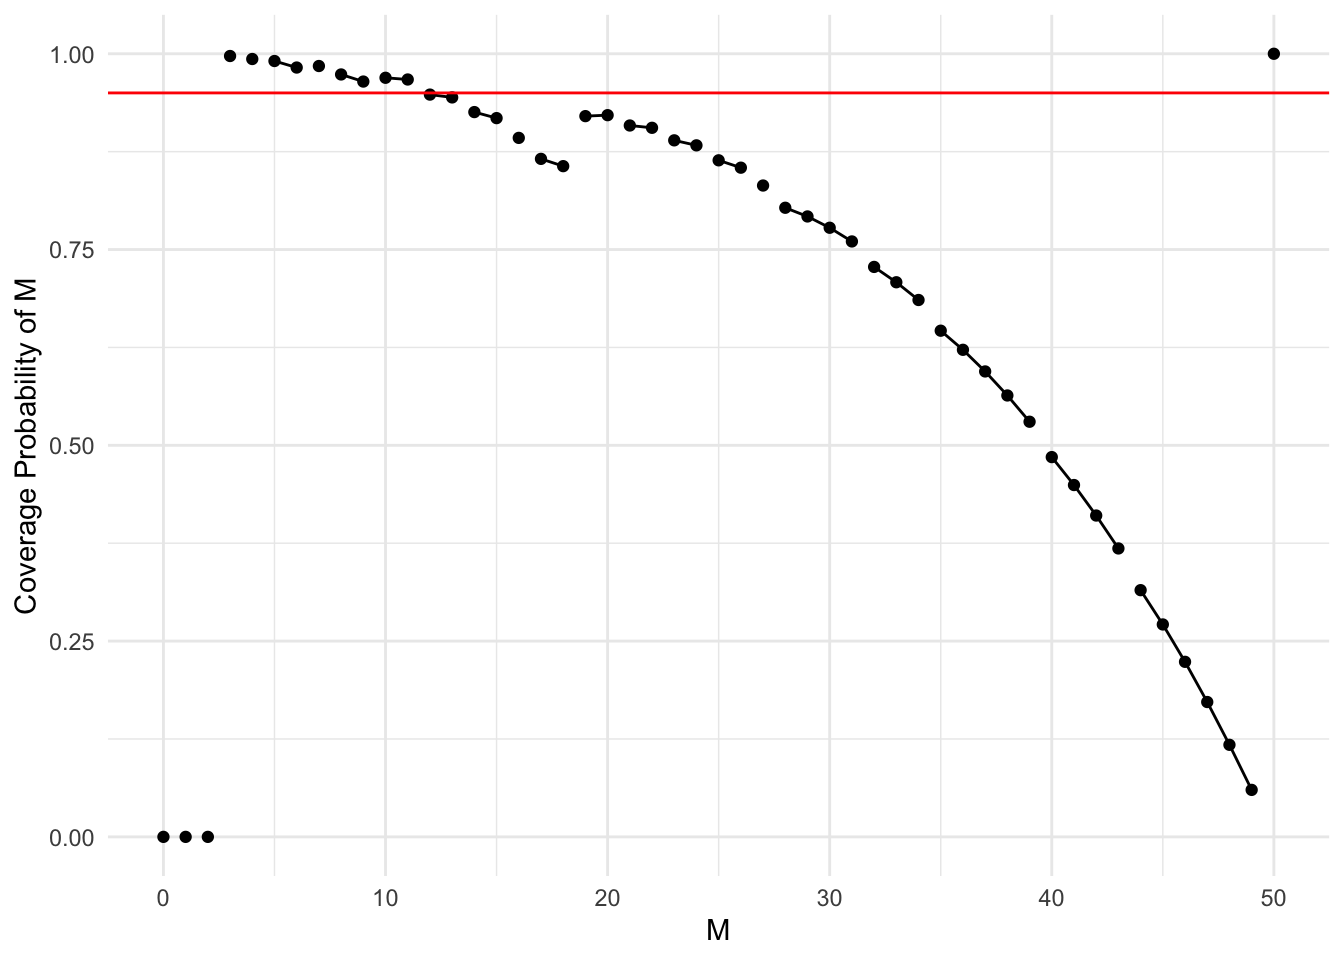
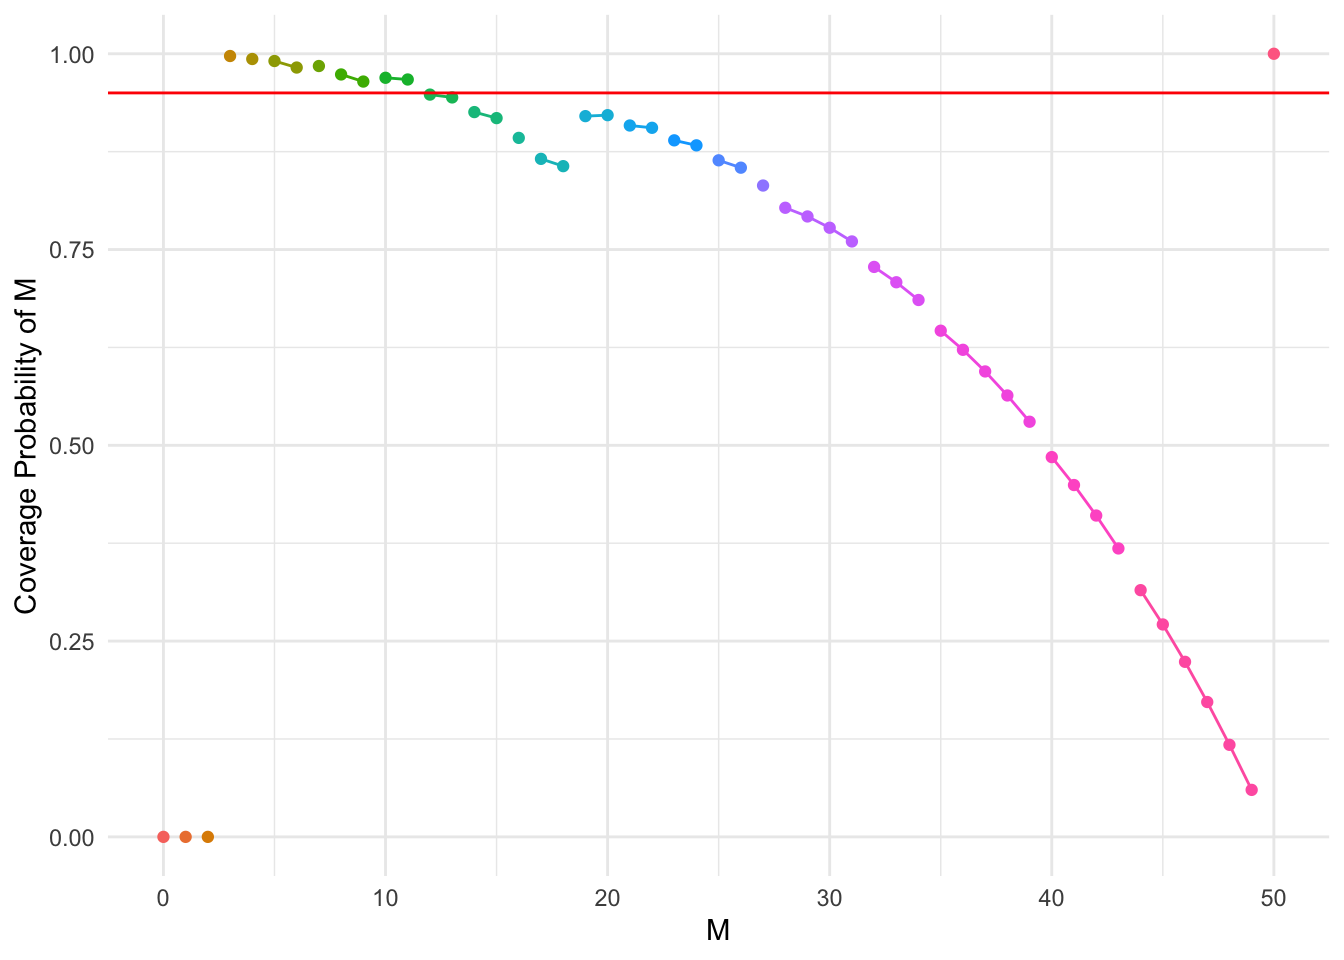
added cpf plots for Blaker updated cpf plots for Zhang

diff --git a/CI_Zhang.html b/CI_Zhang.html
@@ -416,15 +416,16 @@ pre > code.sourceCode > span > a:first-child::before { text-decoration: underlin
 <span id="cb49-9"><a href="#cb49-9" aria-hidden="true" tabindex="-1"></a><span class="co"># The group column assigns a unique group number whenever there is a change in min_x or max_x values</span></span>
 <span id="cb49-10"><a href="#cb49-10" aria-hidden="true" tabindex="-1"></a><span class="co"># cumsum is used to create a cumulative sum that increments the group number whenever there is a change in min_x or max_x</span></span>
 <span id="cb49-11"><a href="#cb49-11" aria-hidden="true" tabindex="-1"></a>coverage_df <span class="ot">=</span> coverage_df <span class="sc">%&gt;%</span></span>
-<span id="cb49-12"><a href="#cb49-12" aria-hidden="true" tabindex="-1"></a>  <span class="fu">mutate</span>(<span class="at">group =</span> <span class="fu">cumsum</span>(<span class="fu">c</span>(<span class="dv">1</span>, <span class="fu">diff</span>(min_x) <span class="sc">!=</span> <span class="dv">0</span> <span class="sc">|</span> <span class="fu">diff</span>(max_x) <span class="sc">!=</span> <span class="dv">0</span>)))</span>
+<span id="cb49-12"><a href="#cb49-12" aria-hidden="true" tabindex="-1"></a>  <span class="fu">mutate</span>(<span class="at">group =</span> <span class="fu">factor</span>(<span class="fu">cumsum</span>(<span class="fu">c</span>(<span class="dv">1</span>, <span class="fu">diff</span>(min_x) <span class="sc">!=</span> <span class="dv">0</span> <span class="sc">|</span> <span class="fu">diff</span>(max_x) <span class="sc">!=</span> <span class="dv">0</span>))))</span>
 <span id="cb49-13"><a href="#cb49-13" aria-hidden="true" tabindex="-1"></a></span>
-<span id="cb49-14"><a href="#cb49-14" aria-hidden="true" tabindex="-1"></a><span class="fu">ggplot</span>(coverage_df, <span class="fu">aes</span>(<span class="at">x =</span> M, <span class="at">y =</span> coverage_prob, <span class="at">group =</span> group)) <span class="sc">+</span></span>
+<span id="cb49-14"><a href="#cb49-14" aria-hidden="true" tabindex="-1"></a><span class="fu">ggplot</span>(coverage_df, <span class="fu">aes</span>(<span class="at">x =</span> M, <span class="at">y =</span> coverage_prob, <span class="at">group =</span> group, <span class="at">color =</span> group)) <span class="sc">+</span></span>
 <span id="cb49-15"><a href="#cb49-15" aria-hidden="true" tabindex="-1"></a>  <span class="fu">geom_line</span>() <span class="sc">+</span></span>
 <span id="cb49-16"><a href="#cb49-16" aria-hidden="true" tabindex="-1"></a>  <span class="fu">geom_point</span>() <span class="sc">+</span></span>
 <span id="cb49-17"><a href="#cb49-17" aria-hidden="true" tabindex="-1"></a>  <span class="fu">labs</span>(<span class="at">x =</span> <span class="st">"M"</span>, <span class="at">y =</span> <span class="st">"Coverage Probability of M"</span>) <span class="sc">+</span></span>
 <span id="cb49-18"><a href="#cb49-18" aria-hidden="true" tabindex="-1"></a>  <span class="fu">geom_hline</span>(<span class="at">yintercept =</span> conf_level, <span class="at">color =</span> <span class="st">"red"</span>) <span class="sc">+</span></span>
 <span id="cb49-19"><a href="#cb49-19" aria-hidden="true" tabindex="-1"></a>  <span class="fu">ylim</span>(<span class="dv">0</span>, <span class="dv">1</span>) <span class="sc">+</span></span>
-<span id="cb49-20"><a href="#cb49-20" aria-hidden="true" tabindex="-1"></a>  <span class="fu">theme_minimal</span>()</span></code><button title="Copy to Clipboard" class="code-copy-button"><i class="bi"></i></button></pre></div>
+<span id="cb49-20"><a href="#cb49-20" aria-hidden="true" tabindex="-1"></a>  <span class="fu">theme_minimal</span>() <span class="sc">+</span></span>
+<span id="cb49-21"><a href="#cb49-21" aria-hidden="true" tabindex="-1"></a>  <span class="fu">theme</span>(<span class="at">legend.position =</span> <span class="st">"none"</span>)</span></code><button title="Copy to Clipboard" class="code-copy-button"><i class="bi"></i></button></pre></div>
 <div class="cell-output-display">
 <div>
 <figure class="figure">
@@ -445,15 +446,16 @@ pre > code.sourceCode > span > a:first-child::before { text-decoration: underlin
 <span id="cb50-9"><a href="#cb50-9" aria-hidden="true" tabindex="-1"></a><span class="co"># The group column assigns a unique group number whenever there is a change in min_x or max_x values</span></span>
 <span id="cb50-10"><a href="#cb50-10" aria-hidden="true" tabindex="-1"></a><span class="co"># cumsum is used to create a cumulative sum that increments the group number whenever there is a change in min_x or max_x</span></span>
 <span id="cb50-11"><a href="#cb50-11" aria-hidden="true" tabindex="-1"></a>coverage_df <span class="ot">=</span> coverage_df <span class="sc">%&gt;%</span></span>
-<span id="cb50-12"><a href="#cb50-12" aria-hidden="true" tabindex="-1"></a>  <span class="fu">mutate</span>(<span class="at">group =</span> <span class="fu">cumsum</span>(<span class="fu">c</span>(<span class="dv">1</span>, <span class="fu">diff</span>(min_x) <span class="sc">!=</span> <span class="dv">0</span> <span class="sc">|</span> <span class="fu">diff</span>(max_x) <span class="sc">!=</span> <span class="dv">0</span>)))</span>
+<span id="cb50-12"><a href="#cb50-12" aria-hidden="true" tabindex="-1"></a>  <span class="fu">mutate</span>(<span class="at">group =</span> <span class="fu">factor</span>(<span class="fu">cumsum</span>(<span class="fu">c</span>(<span class="dv">1</span>, <span class="fu">diff</span>(min_x) <span class="sc">!=</span> <span class="dv">0</span> <span class="sc">|</span> <span class="fu">diff</span>(max_x) <span class="sc">!=</span> <span class="dv">0</span>))))</span>
 <span id="cb50-13"><a href="#cb50-13" aria-hidden="true" tabindex="-1"></a></span>
-<span id="cb50-14"><a href="#cb50-14" aria-hidden="true" tabindex="-1"></a><span class="fu">ggplot</span>(coverage_df, <span class="fu">aes</span>(<span class="at">x =</span> M, <span class="at">y =</span> coverage_prob, <span class="at">group =</span> group)) <span class="sc">+</span></span>
+<span id="cb50-14"><a href="#cb50-14" aria-hidden="true" tabindex="-1"></a><span class="fu">ggplot</span>(coverage_df, <span class="fu">aes</span>(<span class="at">x =</span> M, <span class="at">y =</span> coverage_prob, <span class="at">group =</span> group, <span class="at">color =</span> group)) <span class="sc">+</span></span>
 <span id="cb50-15"><a href="#cb50-15" aria-hidden="true" tabindex="-1"></a>  <span class="fu">geom_line</span>() <span class="sc">+</span></span>
 <span id="cb50-16"><a href="#cb50-16" aria-hidden="true" tabindex="-1"></a>  <span class="fu">geom_point</span>() <span class="sc">+</span></span>
 <span id="cb50-17"><a href="#cb50-17" aria-hidden="true" tabindex="-1"></a>  <span class="fu">labs</span>(<span class="at">x =</span> <span class="st">"M"</span>, <span class="at">y =</span> <span class="st">"Coverage Probability of M"</span>) <span class="sc">+</span></span>
 <span id="cb50-18"><a href="#cb50-18" aria-hidden="true" tabindex="-1"></a>  <span class="fu">geom_hline</span>(<span class="at">yintercept =</span> conf_level, <span class="at">color =</span> <span class="st">"red"</span>) <span class="sc">+</span></span>
 <span id="cb50-19"><a href="#cb50-19" aria-hidden="true" tabindex="-1"></a>  <span class="fu">ylim</span>(<span class="dv">0</span>, <span class="dv">1</span>) <span class="sc">+</span></span>
-<span id="cb50-20"><a href="#cb50-20" aria-hidden="true" tabindex="-1"></a>  <span class="fu">theme_minimal</span>()</span></code><button title="Copy to Clipboard" class="code-copy-button"><i class="bi"></i></button></pre></div>
+<span id="cb50-20"><a href="#cb50-20" aria-hidden="true" tabindex="-1"></a>  <span class="fu">theme_minimal</span>() <span class="sc">+</span></span>
+<span id="cb50-21"><a href="#cb50-21" aria-hidden="true" tabindex="-1"></a>  <span class="fu">theme</span>(<span class="at">legend.position =</span> <span class="st">"none"</span>)</span></code><button title="Copy to Clipboard" class="code-copy-button"><i class="bi"></i></button></pre></div>
 <div class="cell-output-display">
 <div>
 <figure class="figure">
@@ -534,15 +536,16 @@ pre > code.sourceCode > span > a:first-child::before { text-decoration: underlin
 <span id="cb53-9"><a href="#cb53-9" aria-hidden="true" tabindex="-1"></a><span class="co"># The group column assigns a unique group number whenever there is a change in min_x or max_x values</span></span>
 <span id="cb53-10"><a href="#cb53-10" aria-hidden="true" tabindex="-1"></a><span class="co"># cumsum is used to create a cumulative sum that increments the group number whenever there is a change in min_x or max_x</span></span>
 <span id="cb53-11"><a href="#cb53-11" aria-hidden="true" tabindex="-1"></a>coverage_df <span class="ot">=</span> coverage_df <span class="sc">%&gt;%</span></span>
-<span id="cb53-12"><a href="#cb53-12" aria-hidden="true" tabindex="-1"></a>  <span class="fu">mutate</span>(<span class="at">group =</span> <span class="fu">cumsum</span>(<span class="fu">c</span>(<span class="dv">1</span>, <span class="fu">diff</span>(min_x) <span class="sc">!=</span> <span class="dv">0</span> <span class="sc">|</span> <span class="fu">diff</span>(max_x) <span class="sc">!=</span> <span class="dv">0</span>)))</span>
+<span id="cb53-12"><a href="#cb53-12" aria-hidden="true" tabindex="-1"></a>  <span class="fu">mutate</span>(<span class="at">group =</span> <span class="fu">factor</span>(<span class="fu">cumsum</span>(<span class="fu">c</span>(<span class="dv">1</span>, <span class="fu">diff</span>(min_x) <span class="sc">!=</span> <span class="dv">0</span> <span class="sc">|</span> <span class="fu">diff</span>(max_x) <span class="sc">!=</span> <span class="dv">0</span>))))</span>
 <span id="cb53-13"><a href="#cb53-13" aria-hidden="true" tabindex="-1"></a></span>
-<span id="cb53-14"><a href="#cb53-14" aria-hidden="true" tabindex="-1"></a><span class="fu">ggplot</span>(coverage_df, <span class="fu">aes</span>(<span class="at">x =</span> M, <span class="at">y =</span> coverage_prob, <span class="at">group =</span> group)) <span class="sc">+</span></span>
+<span id="cb53-14"><a href="#cb53-14" aria-hidden="true" tabindex="-1"></a><span class="fu">ggplot</span>(coverage_df, <span class="fu">aes</span>(<span class="at">x =</span> M, <span class="at">y =</span> coverage_prob, <span class="at">group =</span> group, <span class="at">color =</span> group)) <span class="sc">+</span></span>
 <span id="cb53-15"><a href="#cb53-15" aria-hidden="true" tabindex="-1"></a>  <span class="fu">geom_line</span>() <span class="sc">+</span></span>
 <span id="cb53-16"><a href="#cb53-16" aria-hidden="true" tabindex="-1"></a>  <span class="fu">geom_point</span>() <span class="sc">+</span></span>
 <span id="cb53-17"><a href="#cb53-17" aria-hidden="true" tabindex="-1"></a>  <span class="fu">labs</span>(<span class="at">x =</span> <span class="st">"M"</span>, <span class="at">y =</span> <span class="st">"Coverage Probability of M"</span>) <span class="sc">+</span></span>
 <span id="cb53-18"><a href="#cb53-18" aria-hidden="true" tabindex="-1"></a>  <span class="fu">geom_hline</span>(<span class="at">yintercept =</span> conf_level, <span class="at">color =</span> <span class="st">"red"</span>) <span class="sc">+</span></span>
 <span id="cb53-19"><a href="#cb53-19" aria-hidden="true" tabindex="-1"></a>  <span class="fu">ylim</span>(<span class="dv">0</span>, <span class="dv">1</span>) <span class="sc">+</span></span>
-<span id="cb53-20"><a href="#cb53-20" aria-hidden="true" tabindex="-1"></a>  <span class="fu">theme_minimal</span>()</span></code><button title="Copy to Clipboard" class="code-copy-button"><i class="bi"></i></button></pre></div>
+<span id="cb53-20"><a href="#cb53-20" aria-hidden="true" tabindex="-1"></a>  <span class="fu">theme_minimal</span>() <span class="sc">+</span></span>
+<span id="cb53-21"><a href="#cb53-21" aria-hidden="true" tabindex="-1"></a>  <span class="fu">theme</span>(<span class="at">legend.position =</span> <span class="st">"none"</span>)</span></code><button title="Copy to Clipboard" class="code-copy-button"><i class="bi"></i></button></pre></div>
 <div class="cell-output-display">
 <div>
 <figure class="figure">
@@ -563,15 +566,16 @@ pre > code.sourceCode > span > a:first-child::before { text-decoration: underlin
 <span id="cb54-9"><a href="#cb54-9" aria-hidden="true" tabindex="-1"></a><span class="co"># The group column assigns a unique group number whenever there is a change in min_x or max_x values</span></span>
 <span id="cb54-10"><a href="#cb54-10" aria-hidden="true" tabindex="-1"></a><span class="co"># cumsum is used to create a cumulative sum that increments the group number whenever there is a change in min_x or max_x</span></span>
 <span id="cb54-11"><a href="#cb54-11" aria-hidden="true" tabindex="-1"></a>coverage_df <span class="ot">=</span> coverage_df <span class="sc">%&gt;%</span></span>
-<span id="cb54-12"><a href="#cb54-12" aria-hidden="true" tabindex="-1"></a>  <span class="fu">mutate</span>(<span class="at">group =</span> <span class="fu">cumsum</span>(<span class="fu">c</span>(<span class="dv">1</span>, <span class="fu">diff</span>(min_x) <span class="sc">!=</span> <span class="dv">0</span> <span class="sc">|</span> <span class="fu">diff</span>(max_x) <span class="sc">!=</span> <span class="dv">0</span>)))</span>
+<span id="cb54-12"><a href="#cb54-12" aria-hidden="true" tabindex="-1"></a>  <span class="fu">mutate</span>(<span class="at">group =</span> <span class="fu">factor</span>(<span class="fu">cumsum</span>(<span class="fu">c</span>(<span class="dv">1</span>, <span class="fu">diff</span>(min_x) <span class="sc">!=</span> <span class="dv">0</span> <span class="sc">|</span> <span class="fu">diff</span>(max_x) <span class="sc">!=</span> <span class="dv">0</span>))))</span>
 <span id="cb54-13"><a href="#cb54-13" aria-hidden="true" tabindex="-1"></a></span>
-<span id="cb54-14"><a href="#cb54-14" aria-hidden="true" tabindex="-1"></a><span class="fu">ggplot</span>(coverage_df, <span class="fu">aes</span>(<span class="at">x =</span> M, <span class="at">y =</span> coverage_prob, <span class="at">group =</span> group)) <span class="sc">+</span></span>
+<span id="cb54-14"><a href="#cb54-14" aria-hidden="true" tabindex="-1"></a><span class="fu">ggplot</span>(coverage_df, <span class="fu">aes</span>(<span class="at">x =</span> M, <span class="at">y =</span> coverage_prob, <span class="at">group =</span> group, <span class="at">color =</span> group)) <span class="sc">+</span></span>
 <span id="cb54-15"><a href="#cb54-15" aria-hidden="true" tabindex="-1"></a>  <span class="fu">geom_line</span>() <span class="sc">+</span></span>
 <span id="cb54-16"><a href="#cb54-16" aria-hidden="true" tabindex="-1"></a>  <span class="fu">geom_point</span>() <span class="sc">+</span></span>
 <span id="cb54-17"><a href="#cb54-17" aria-hidden="true" tabindex="-1"></a>  <span class="fu">labs</span>(<span class="at">x =</span> <span class="st">"M"</span>, <span class="at">y =</span> <span class="st">"Coverage Probability of M"</span>) <span class="sc">+</span></span>
 <span id="cb54-18"><a href="#cb54-18" aria-hidden="true" tabindex="-1"></a>  <span class="fu">geom_hline</span>(<span class="at">yintercept =</span> conf_level, <span class="at">color =</span> <span class="st">"red"</span>) <span class="sc">+</span></span>
 <span id="cb54-19"><a href="#cb54-19" aria-hidden="true" tabindex="-1"></a>  <span class="fu">ylim</span>(<span class="dv">0</span>, <span class="dv">1</span>) <span class="sc">+</span></span>
-<span id="cb54-20"><a href="#cb54-20" aria-hidden="true" tabindex="-1"></a>  <span class="fu">theme_minimal</span>()</span></code><button title="Copy to Clipboard" class="code-copy-button"><i class="bi"></i></button></pre></div>
+<span id="cb54-20"><a href="#cb54-20" aria-hidden="true" tabindex="-1"></a>  <span class="fu">theme_minimal</span>() <span class="sc">+</span></span>
+<span id="cb54-21"><a href="#cb54-21" aria-hidden="true" tabindex="-1"></a>  <span class="fu">theme</span>(<span class="at">legend.position =</span> <span class="st">"none"</span>)</span></code><button title="Copy to Clipboard" class="code-copy-button"><i class="bi"></i></button></pre></div>
 <div class="cell-output-display">
 <div>
 <figure class="figure">

diff --git a/CI_Blaker.html b/CI_Blaker.html
@@ -472,6 +472,67 @@ pre > code.sourceCode > span > a:first-child::before { text-decoration: underlin
 </div>
 </div>
 </section>
+<section id="plot-of-coverage-probability" class="level2">
+<h2 class="anchored" data-anchor-id="plot-of-coverage-probability">Plot of Coverage Probability</h2>
+<section id="n-20-m-3-conf_level-0.95" class="level3">
+<h3 class="anchored" data-anchor-id="n-20-m-3-conf_level-0.95">N = 20, m = 3, conf_level = 0.95</h3>
+<div class="cell">
+<div class="sourceCode cell-code" id="cb14"><pre class="sourceCode r code-with-copy"><code class="sourceCode r"><span id="cb14-1"><a href="#cb14-1" aria-hidden="true" tabindex="-1"></a>data <span class="ot">=</span> <span class="fu">blaker_ac</span>(<span class="at">N =</span> <span class="dv">20</span>, <span class="at">m =</span> <span class="dv">3</span>, <span class="at">conf_level =</span> <span class="fl">0.95</span>)</span>
+<span id="cb14-2"><a href="#cb14-2" aria-hidden="true" tabindex="-1"></a>conf_level<span class="ot">=</span> <span class="fl">0.95</span></span>
+<span id="cb14-3"><a href="#cb14-3" aria-hidden="true" tabindex="-1"></a></span>
+<span id="cb14-4"><a href="#cb14-4" aria-hidden="true" tabindex="-1"></a><span class="fu">ggplot</span>(data, <span class="fu">aes</span>(<span class="at">x =</span> M, <span class="at">y =</span> coverage_prob, <span class="at">group =</span> x_set, <span class="at">color =</span> x_set)) <span class="sc">+</span></span>
+<span id="cb14-5"><a href="#cb14-5" aria-hidden="true" tabindex="-1"></a>  <span class="fu">geom_line</span>() <span class="sc">+</span></span>
+<span id="cb14-6"><a href="#cb14-6" aria-hidden="true" tabindex="-1"></a>  <span class="fu">geom_point</span>() <span class="sc">+</span></span>
+<span id="cb14-7"><a href="#cb14-7" aria-hidden="true" tabindex="-1"></a>  <span class="fu">labs</span>(<span class="at">x =</span> <span class="st">"M"</span>, <span class="at">y =</span> <span class="st">"Coverage Probability of M"</span>) <span class="sc">+</span></span>
+<span id="cb14-8"><a href="#cb14-8" aria-hidden="true" tabindex="-1"></a>  <span class="fu">geom_hline</span>(<span class="at">yintercept =</span> conf_level, <span class="at">color =</span> <span class="st">"red"</span>) <span class="sc">+</span></span>
+<span id="cb14-9"><a href="#cb14-9" aria-hidden="true" tabindex="-1"></a>  <span class="fu">ylim</span>(conf_level <span class="sc">-</span> <span class="fl">0.005</span>, <span class="dv">1</span>) <span class="sc">+</span></span>
+<span id="cb14-10"><a href="#cb14-10" aria-hidden="true" tabindex="-1"></a>  <span class="fu">theme_minimal</span>() <span class="sc">+</span></span>
+<span id="cb14-11"><a href="#cb14-11" aria-hidden="true" tabindex="-1"></a>  <span class="fu">theme</span>(<span class="at">legend.position =</span> <span class="st">"none"</span>)</span></code><button title="Copy to Clipboard" class="code-copy-button"><i class="bi"></i></button></pre></div>
+<div class="cell-output cell-output-stderr">
+<pre><code>Warning: Removed 3 rows containing missing values (`geom_line()`).</code></pre>
+</div>
+<div class="cell-output cell-output-stderr">
+<pre><code>Warning: Removed 3 rows containing missing values (`geom_point()`).</code></pre>
+</div>
+<div class="cell-output-display">
+<div>
+<figure class="figure">
+<p><img src="CI_Blaker_files/figure-html/unnamed-chunk-11-1.png" class="img-fluid figure-img" width="672"></p>
+</figure>
+</div>
+</div>
+</div>
+</section>
+<section id="n-50-m-3-conf_level-0.95" class="level3">
+<h3 class="anchored" data-anchor-id="n-50-m-3-conf_level-0.95">N = 50, m = 3, conf_level = 0.95</h3>
+<div class="cell">
+<div class="sourceCode cell-code" id="cb17"><pre class="sourceCode r code-with-copy"><code class="sourceCode r"><span id="cb17-1"><a href="#cb17-1" aria-hidden="true" tabindex="-1"></a>data <span class="ot">=</span> <span class="fu">blaker_ac</span>(<span class="at">N =</span> <span class="dv">50</span>, <span class="at">m =</span> <span class="dv">3</span>, <span class="at">conf_level =</span> <span class="fl">0.95</span>)</span>
+<span id="cb17-2"><a href="#cb17-2" aria-hidden="true" tabindex="-1"></a>conf_level<span class="ot">=</span> <span class="fl">0.95</span></span>
+<span id="cb17-3"><a href="#cb17-3" aria-hidden="true" tabindex="-1"></a></span>
+<span id="cb17-4"><a href="#cb17-4" aria-hidden="true" tabindex="-1"></a><span class="fu">ggplot</span>(data, <span class="fu">aes</span>(<span class="at">x =</span> M, <span class="at">y =</span> coverage_prob, <span class="at">group =</span> x_set, <span class="at">color =</span> x_set)) <span class="sc">+</span></span>
+<span id="cb17-5"><a href="#cb17-5" aria-hidden="true" tabindex="-1"></a>  <span class="fu">geom_line</span>() <span class="sc">+</span></span>
+<span id="cb17-6"><a href="#cb17-6" aria-hidden="true" tabindex="-1"></a>  <span class="fu">geom_point</span>() <span class="sc">+</span></span>
+<span id="cb17-7"><a href="#cb17-7" aria-hidden="true" tabindex="-1"></a>  <span class="fu">labs</span>(<span class="at">x =</span> <span class="st">"M"</span>, <span class="at">y =</span> <span class="st">"Coverage Probability of M"</span>) <span class="sc">+</span></span>
+<span id="cb17-8"><a href="#cb17-8" aria-hidden="true" tabindex="-1"></a>  <span class="fu">geom_hline</span>(<span class="at">yintercept =</span> conf_level, <span class="at">color =</span> <span class="st">"red"</span>) <span class="sc">+</span></span>
+<span id="cb17-9"><a href="#cb17-9" aria-hidden="true" tabindex="-1"></a>  <span class="fu">ylim</span>(conf_level <span class="sc">-</span> <span class="fl">0.005</span>, <span class="dv">1</span>) <span class="sc">+</span></span>
+<span id="cb17-10"><a href="#cb17-10" aria-hidden="true" tabindex="-1"></a>  <span class="fu">theme_minimal</span>() <span class="sc">+</span></span>
+<span id="cb17-11"><a href="#cb17-11" aria-hidden="true" tabindex="-1"></a>  <span class="fu">theme</span>(<span class="at">legend.position =</span> <span class="st">"none"</span>)</span></code><button title="Copy to Clipboard" class="code-copy-button"><i class="bi"></i></button></pre></div>
+<div class="cell-output cell-output-stderr">
+<pre><code>Warning: Removed 3 rows containing missing values (`geom_line()`).</code></pre>
+</div>
+<div class="cell-output cell-output-stderr">
+<pre><code>Warning: Removed 3 rows containing missing values (`geom_point()`).</code></pre>
+</div>
+<div class="cell-output-display">
+<div>
+<figure class="figure">
+<p><img src="CI_Blaker_files/figure-html/unnamed-chunk-12-1.png" class="img-fluid figure-img" width="672"></p>
+</figure>
+</div>
+</div>
+</div>
+</section>
+</section>
 </section>
 
 </main>
